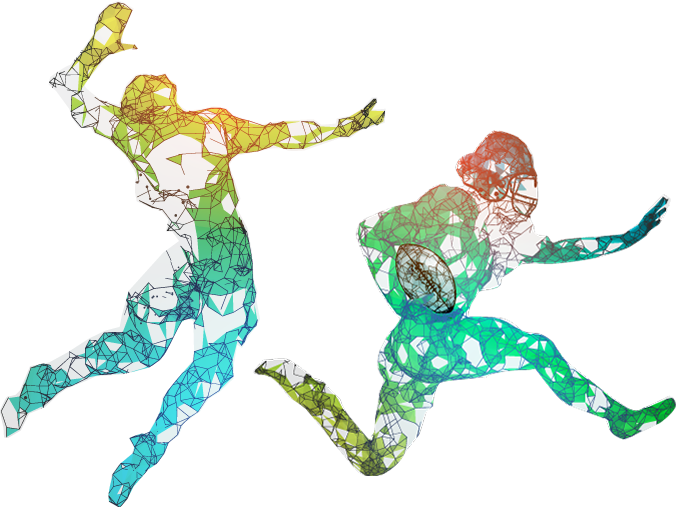
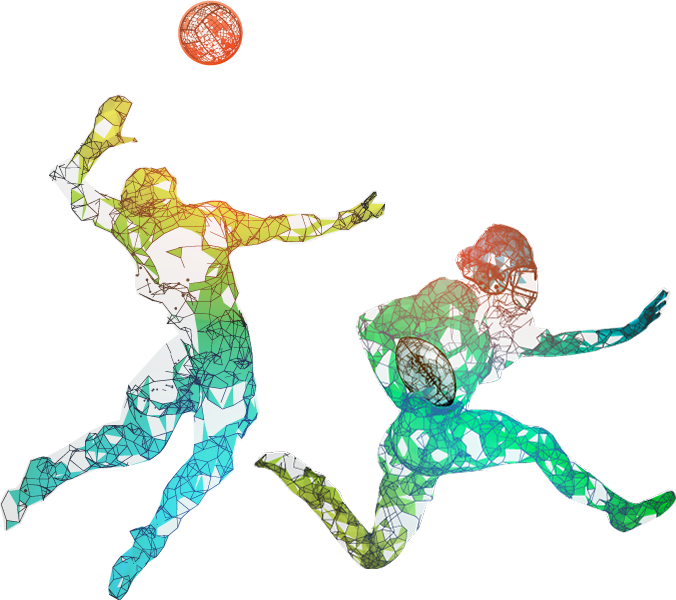
more formatting

diff --git a/sunday.html b/sunday.html
@@ -1,5 +1,6 @@
 <!DOCTYPE html>
-<html lang="en"><!-- InstanceBegin template="/Templates/page.dwt" codeOutsideHTMLIsLocked="false" -->
+<html lang="en">
+<!-- InstanceBegin template="/Templates/page.dwt" codeOutsideHTMLIsLocked="false" -->
 <head>
 <meta charset="utf-8">
 <meta http-equiv="X-UA-Compatible" content="IE=edge">
@@ -14,9 +15,9 @@
 h.end=i=function(){s.className=s.className.replace(RegExp(' ?'+y),'')};
 (a[n]=a[n]||[]).hide=h;setTimeout(function(){i();h.end=null},c);h.timeout=c;
 })(window,document.documentElement,'async-hide','dataLayer',4000,
-{'GTM-K3MW9FB':true});</script>
-<!-- End -->
-<!-- Google Analytics with Google Optimize plugin -->
+{'GTM-K3MW9FB':true});</script> 
+<!-- End --> 
+<!-- Google Analytics with Google Optimize plugin --> 
 <script>
   (function(i,s,o,g,r,a,m){i['GoogleAnalyticsObject']=r;i[r]=i[r]||function(){
   (i[r].q=i[r].q||[]).push(arguments)},i[r].l=1*new Date();a=s.createElement(o),
@@ -25,14 +26,14 @@ h.end=i=function(){s.className=s.className.replace(RegExp(' ?'+y),'')};
   ga('create', 'UA-81615628-1', 'auto');
   ga('require', 'GTM-K3MW9FB');
   ga('send', 'pageview');
-</script>
-<!-- End -->
-<!-- Google Tag Manager -->
+</script> 
+<!-- End --> 
+<!-- Google Tag Manager --> 
 <script>(function(w,d,s,l,i){w[l]=w[l]||[];w[l].push({'gtm.start':
 new Date().getTime(),event:'gtm.js'});var f=d.getElementsByTagName(s)[0],
 j=d.createElement(s),dl=l!='dataLayer'?'&l='+l:'';j.async=true;j.src=
 'https://www.googletagmanager.com/gtm.js?id='+i+dl;f.parentNode.insertBefore(j,f);
-})(window,document,'script','dataLayer','GTM-MV5DM73');</script>
+})(window,document,'script','dataLayer','GTM-MV5DM73');</script> 
 <!-- End Google Tag Manager -->
 <!-- InstanceBeginEditable name="title" -->
 <title>Douglas County Libraries</title>
@@ -61,21 +62,21 @@ j=d.createElement(s),dl=l!='dataLayer'?'&l='+l:'';j.async=true;j.src=
 <link rel="stylesheet" href="https://cdnjs.cloudflare.com/ajax/libs/font-awesome/5.10.0-12/css/all.css" integrity="sha256-qQHUQX+gGGYfpC7Zdni08sr+h0ymXr0avmIASucY4FM=" crossorigin="anonymous" />
 <link href="https://fonts.googleapis.com/css?family=Roboto+Slab:300,400|Ubuntu:300,400,500,300italic,400italic,500italic|Open+Sans|Nothing+You+Could+Do|Material+Icons" rel="stylesheet">
 <link type="text/css" rel="stylesheet" href="shared-assets/css/dcl.css">
-<!-- HTML5 shim and Respond.js for IE8 support of HTML5 elements and media queries -->
-<!-- WARNING: Respond.js doesn't work if you view the page via file:// -->
+<!-- HTML5 shim and Respond.js for IE8 support of HTML5 elements and media queries --> 
+<!-- WARNING: Respond.js doesn't work if you view the page via file:// --> 
 <!--[if lt IE 9]>
       <script src="https://oss.maxcdn.com/html5shiv/3.7.2/html5shiv.min.js"></script>
       <script src="https://oss.maxcdn.com/respond/1.4.2/respond.min.js"></script>
-    <![endif]-->
-<!--<script src="https://use.fortawesome.com/e61d5dd7.js"></script>-->
+    <![endif]--> 
+<!--<script src="https://use.fortawesome.com/e61d5dd7.js"></script>--> 
 <script async="async" type="text/javascript">(function(){var e=document.createElement("script");
 e.src="https://dcl.bibliocommons.com/javascripts/sdk.js";
-e.async=true;var t=document.getElementsByTagName("script")[0];t.parentNode.insertBefore(e,t)})()</script>
-<script src="https://code.jquery.com/jquery-1.11.3.min.js" integrity="sha256-7LkWEzqTdpEfELxcZZlS6wAx5Ff13zZ83lYO2/ujj7g=" crossorigin="anonymous"></script>
-<script src="https://maxcdn.bootstrapcdn.com/bootstrap/3.3.7/js/bootstrap.min.js" integrity="sha384-Tc5IQib027qvyjSMfHjOMaLkfuWVxZxUPnCJA7l2mCWNIpG9mGCD8wGNIcPD7Txa" crossorigin="anonymous"></script>
-<script src="shared-assets/js/dcl.js"></script>
-<!-- Start of Zendesk Widget script -->
-<script id="ze-snippet" src="https://static.zdassets.com/ekr/snippet.js?key=72a1019f-18b4-4f9c-ad65-4b7aa501f1d8"> </script>
+e.async=true;var t=document.getElementsByTagName("script")[0];t.parentNode.insertBefore(e,t)})()</script> 
+<script src="https://code.jquery.com/jquery-1.11.3.min.js" integrity="sha256-7LkWEzqTdpEfELxcZZlS6wAx5Ff13zZ83lYO2/ujj7g=" crossorigin="anonymous"></script> 
+<script src="https://maxcdn.bootstrapcdn.com/bootstrap/3.3.7/js/bootstrap.min.js" integrity="sha384-Tc5IQib027qvyjSMfHjOMaLkfuWVxZxUPnCJA7l2mCWNIpG9mGCD8wGNIcPD7Txa" crossorigin="anonymous"></script> 
+<script src="shared-assets/js/dcl.js"></script> 
+<!-- Start of Zendesk Widget script --> 
+<script id="ze-snippet" src="https://static.zdassets.com/ekr/snippet.js?key=72a1019f-18b4-4f9c-ad65-4b7aa501f1d8"> </script> 
 <!-- End of Zendesk Widget script -->
 <!-- InstanceBeginEditable name="head" -->
 <!-- pinterest - do not remove -->
@@ -118,7 +119,10 @@ e.async=true;var t=document.getElementsByTagName("script")[0];t.parentNode.inser
 h1.smoking {
 	font-size: 60px;
 }
-	.link-wrapper h1 {
+.link-wrapper {
+	margin: 35px auto -170px auto;
+}
+.link-wrapper h1 {
 	text-transform: uppercase;
 	margin: 5px 0;
 	font-size: 25px;
@@ -130,16 +134,15 @@ h1.smoking {
 	justify-content: center;
 }
 .sport.one {
-	margin: 55px -95px -35px 0;
+	margin: 115px -98px -35px 0;
 }
 .sport.two {
-	
 }
 .sport.three {
-	margin: 30px 0 0 -20px;
+	margin: 100px 0 0 -15px;
 }
 .sport.four {
-	margin: 165px 0 0px 35px;
+	margin: 190px 0 0px 40px;
 }
 .item-wrapper {
 	display: flex;
@@ -365,11 +368,12 @@ height="0" width="0" style="display:none;visibility:hidden"></iframe>
   </div>
   <div style="background-image: url(sports-background.jpg);" class="row sports-row">
     <div class="link-wrapper text-center">
-      <h1>This is link number one</h1><h1>This is link number two</h1><h1>This is link number three</h1>
+      <h1>This is link number one</h1>
+      <h1>This is link number two</h1>
+      <h1>This is link number three</h1>
     </div>
     <div class="sports-wrapper">
       <div class="sport one"><img class="" src="basketball.png" alt="Basketball"></div>
-      
       <div class="sport two"><img class="" src="volleyball-football.png" alt="Volleyball & Football"></div>
       <div class="sport three"><img class="" src="soccer.png" alt="American Soccer"></div>
       <div class="sport four"><img class="" src="golf.png" alt="Golf"><!-- really a sport?--></div>
@@ -470,4 +474,5 @@ height="0" width="0" style="display:none;visibility:hidden"></iframe>
 </script> 
 <!-- End Structured Data -->
 </body>
-<!-- InstanceEnd --></html>
+<!-- InstanceEnd -->
+</html>
